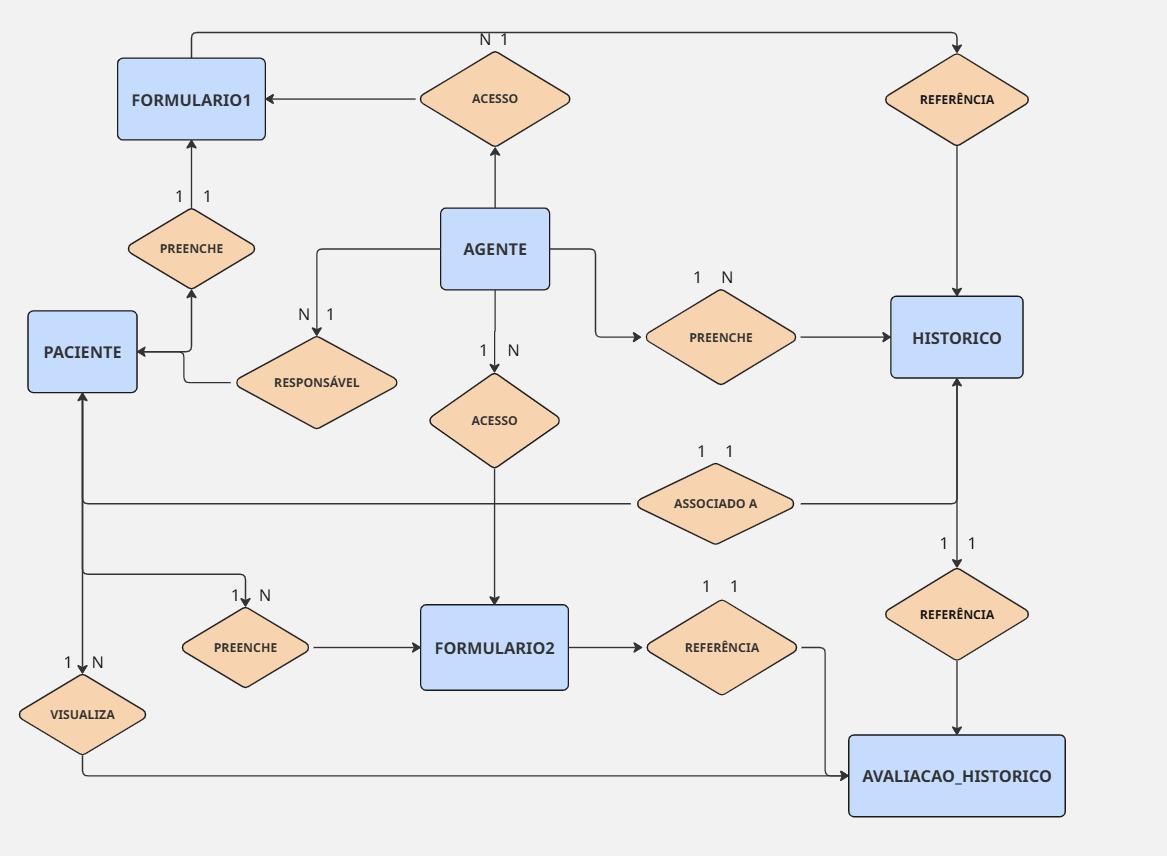
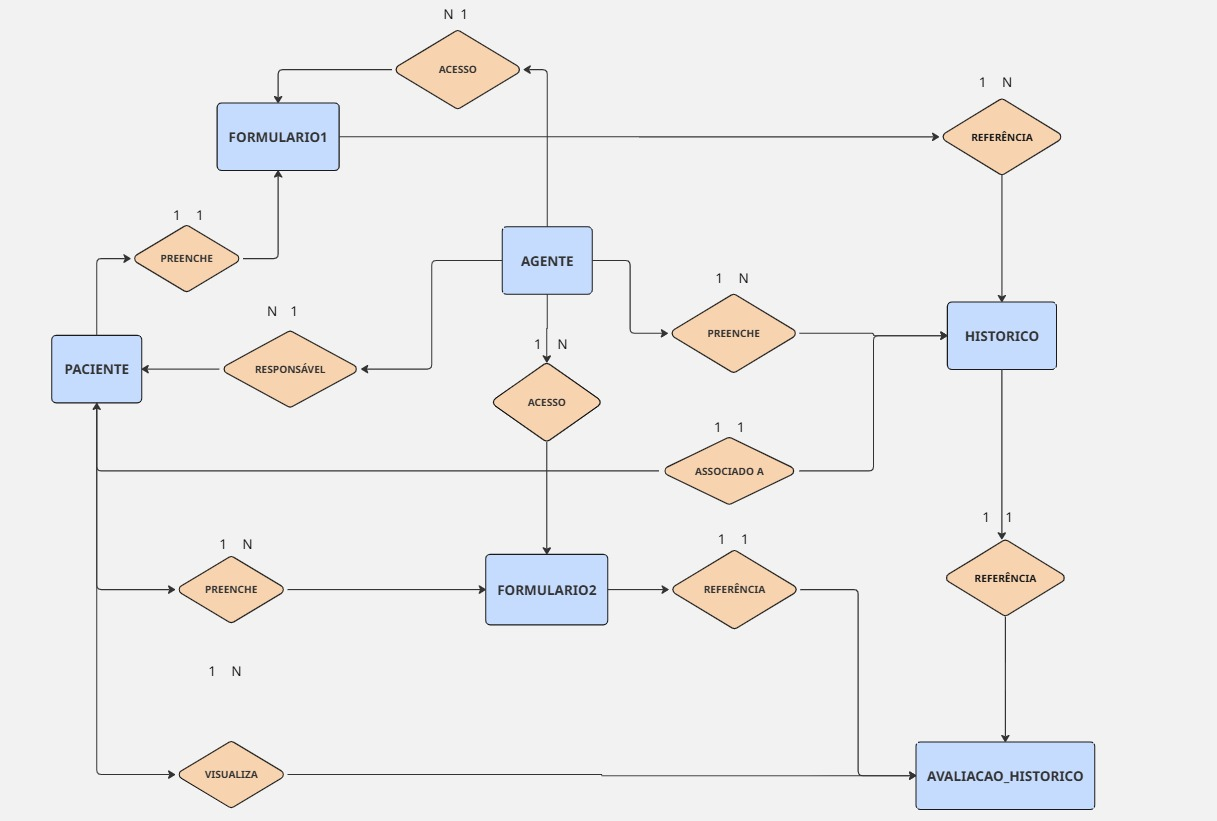
docs: alterando imagem com alinhamento do Afonso.

diff --git a/documentos/wad.md b/documentos/wad.md
@@ -592,7 +592,7 @@ erDiagram
     %% Relacionamentos
     AGENTE ||--o{ PACIENTE : "responsável por"
     AGENTE ||--o{ FORMULARIO2 : "acesso"
-    AGENTE ||--o{ HISTORICO : "preenche prontuário"
+    AGENTE ||--o{ HISTORICO : "preenche histórico"
     PACIENTE ||--o{ FORMULARIO1 : "preenche"
     PACIENTE ||--o{ FORMULARIO2 : "preenche"
     PACIENTE ||--o{ HISTORICO : "associado ao"
